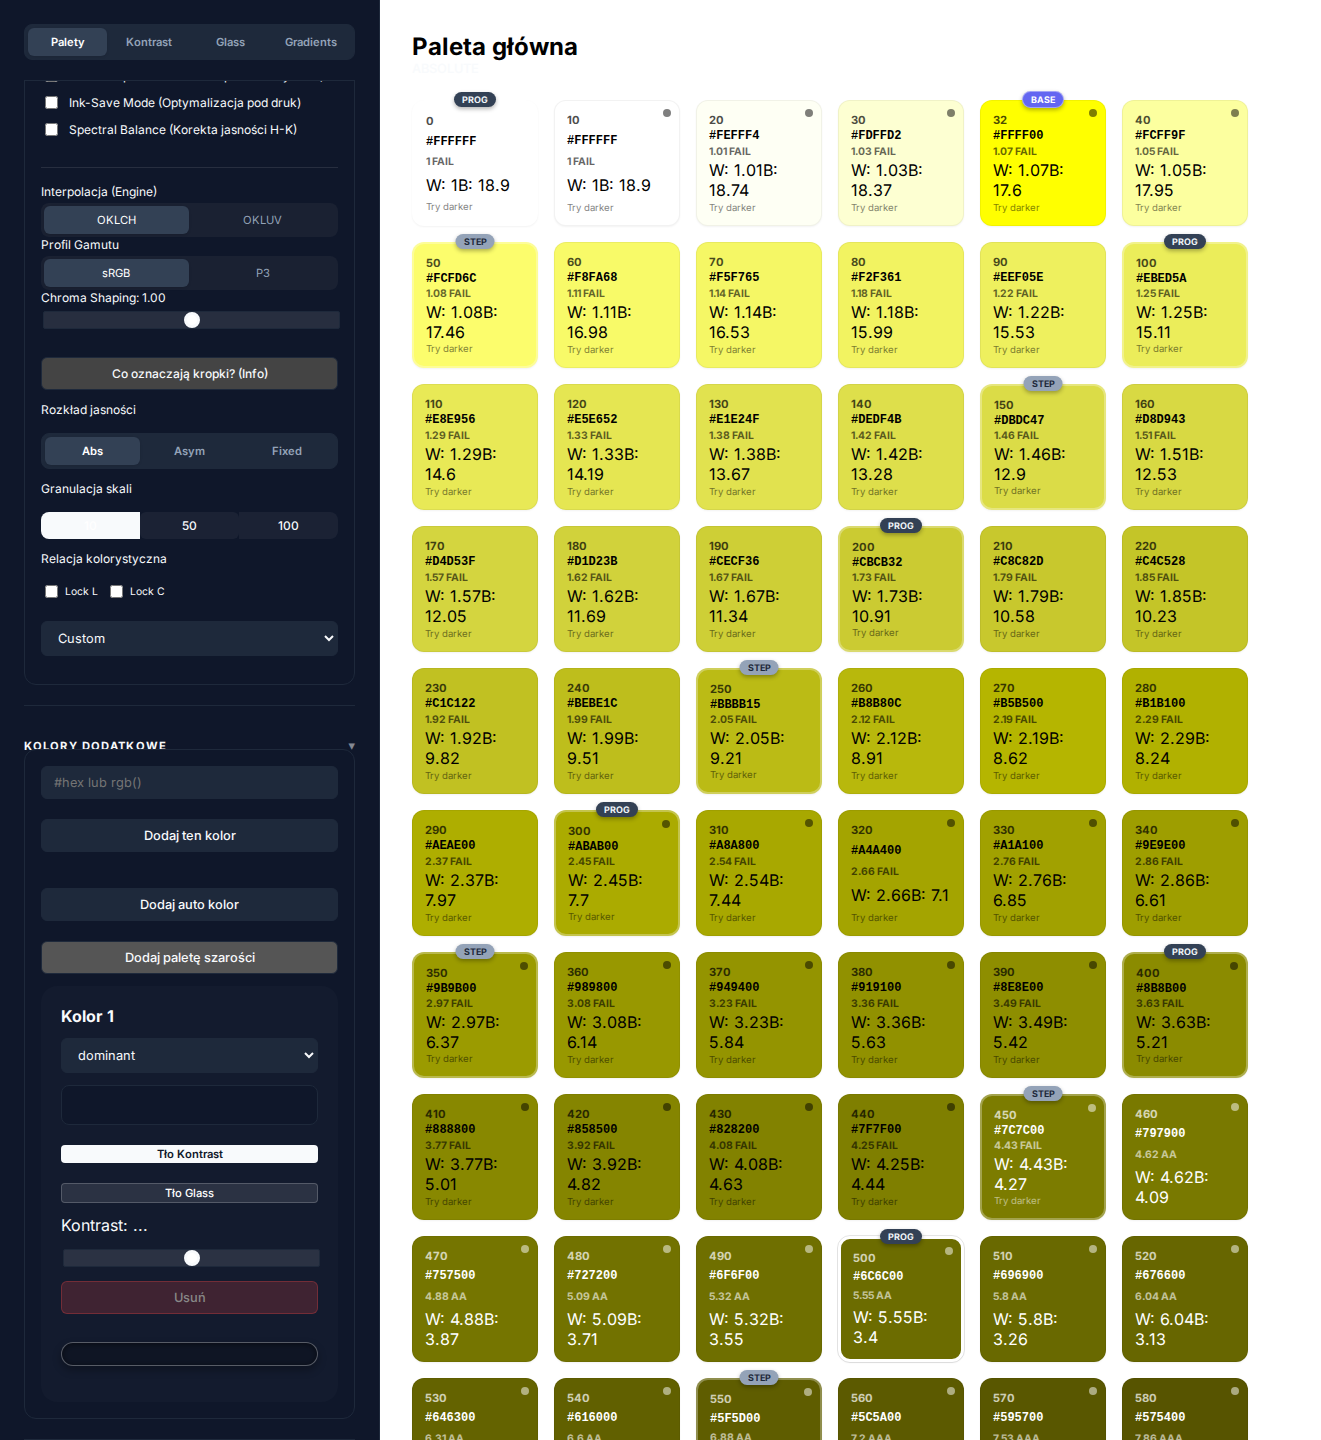
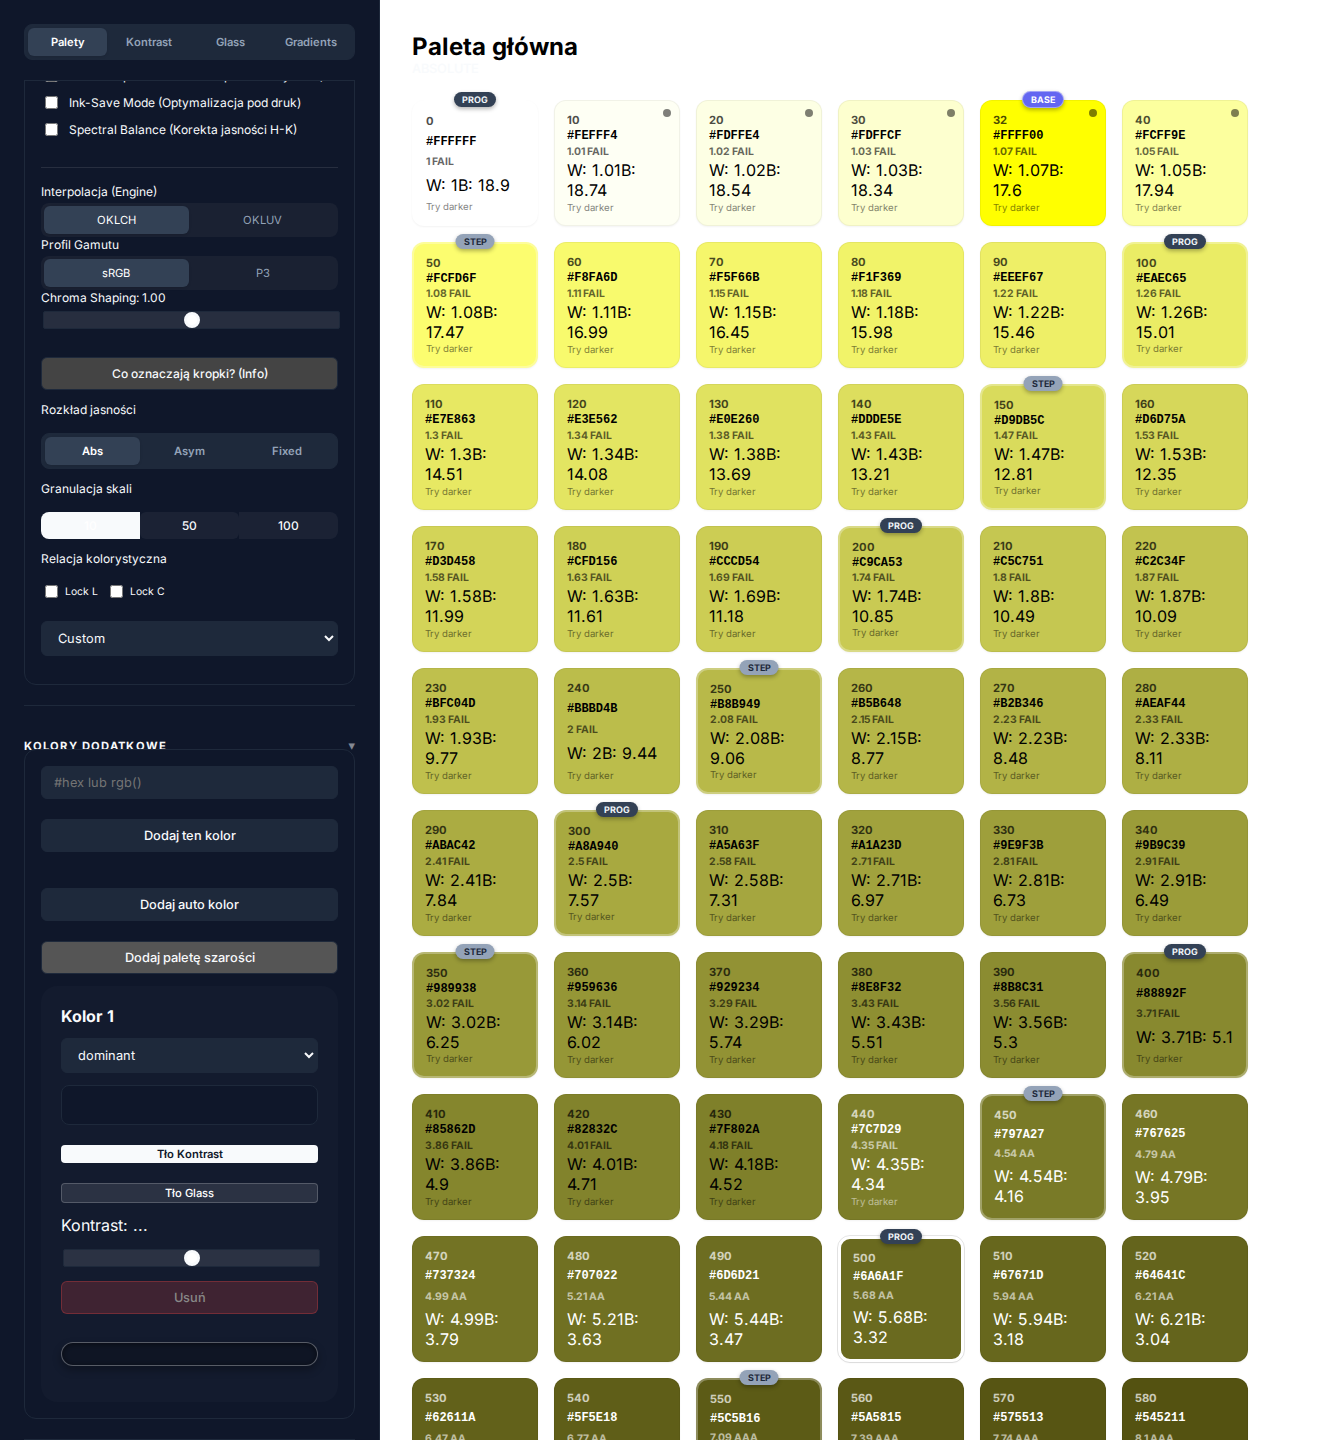
Refactor color engine to OKLCH, fix yellow blowout, and implement V9 features.
- Migrated core engine math to OKLCH and CAM16-UCS in `engine/engine.math.js`.
- Implemented Hybrid Falloff Model (V9.1) in `engine/algo.standard.js` to resolve yellow gradation issues.
- Synchronized granularity controls (10/50/100 steps) across UI and engine.
- Added 'Light Mode Boost' for hue-corrected yellows and 'Spectral Balance' for perceptual consistency.
- Fixed UI rendering for Glass and Gradient views and resolved missing imports in sidebar controls.
- Generated comprehensive documentation: checklist.txt, audit.txt, and analysis.txt.
- Verified visual correctness via automated Playwright scripts and screenshots.

diff --git a/ui/render/ui.render.swatch.js b/ui/render/ui.render.swatch.js
@@ -25,8 +25,11 @@ export function renderSwatch(swatch, opts = {}){
   const is100 = swatch.isProg100;
   const is50  = swatch.isProg50;
 
-  if (gran === 50 && !is50 && !swatch.isBase) return null;
-  if (gran === 100 && !is100 && !swatch.isBase) return null;
+  // For compact views (Functional/Badge), we don't filter by global granularity
+  if (!opts.compact) {
+    if (gran === 50 && !is50 && !swatch.isBase) return null;
+    if (gran === 100 && !is100 && !swatch.isBase) return null;
+  }
 
   d.style.background = swatch.hex;
 
@@ -45,7 +48,7 @@ export function renderSwatch(swatch, opts = {}){
       d.appendChild(badge);
   }
 
-  if (gran === 10) {
+  if (gran === 10 || opts.compact) {
       if (is100) {
           const badge = el('div', 'swatch-badge step100 visible', 'PROG');
           if (!swatch.isBase) d.appendChild(badge);
@@ -57,6 +60,13 @@ export function renderSwatch(swatch, opts = {}){
       if (is100) {
           const badge = el('div', 'swatch-badge step100 visible', 'PROG');
           if (!swatch.isBase) d.appendChild(badge);
+      }
+  } else if (gran === 100) {
+      // In Gradation 100, we don't necessarily show badges unless requested,
+      // but let's show PROG if it's the 100-step (which is always true in Grad 100 mode)
+      if (is100 && !swatch.isBase) {
+           const badge = el('div', 'swatch-badge step100 visible', 'PROG');
+           d.appendChild(badge);
       }
   }
 

diff --git a/engine/engine.palettes.js b/engine/engine.palettes.js
@@ -11,11 +11,19 @@ import {
 } from "./engine.scales.js";
 import { rgbToHex } from "./engine.math.js";
 /* ---------- MAIN PALETTE ---------- */
+function getStepsForGranularity(gran) {
+    if (gran === 10) return Array.from({length: 101}, (_, i) => i * 10);
+    if (gran === 50) return Array.from({length: 21}, (_, i) => i * 50);
+    if (gran === 100) return Array.from({length: 11}, (_, i) => i * 100);
+    return Array.from({length: 101}, (_, i) => i * 10);
+}
+
 export function getMainPalette(){
   const baseLch = getBaseLCH();
   const baseHex = rgbToHex(EngineState.base.rgb);
+  const steps = getStepsForGranularity(EngineState.mode.granularity);
   return {
-    scale: generateScaleForLCH(baseLch, undefined, false, baseHex),
+    scale: generateScaleForLCH(baseLch, steps, false, baseHex),
     mode: EngineState.mode.scale
   };
 }
@@ -72,10 +80,11 @@ export function getAdditionalPalettes(){
       h: hue
     };
 
+    const steps = getStepsForGranularity(EngineState.mode.granularity);
     return {
       index: c.index,
       role: c.role,
-      scale: generateScaleForLCH(lch, undefined, false, c.manualHex)
+      scale: generateScaleForLCH(lch, steps, false, c.manualHex)
     };
   });
 }

diff --git a/engine/algo.standard.js b/engine/algo.standard.js
@@ -24,7 +24,14 @@ export function generateStandardScale(baseLch, steps, isDarkMode) {
         const s0 = sigmoid(-0.5);
         const s1 = sigmoid(0.5);
         const t = (sigmoid(normalizedDist - 0.5) - s0) / (s1 - s0);
-        const falloff = Math.max(0, 1 - t);
+
+        // V9.1 Linear Blend for high-chroma base colors to prevent "blowout"
+        // If base color is very saturated, we use a more linear falloff to avoid sudden jumps
+        const linearFalloff = Math.max(0, 1 - normalizedDist);
+        const sigmoidalFalloff = Math.max(0, 1 - t);
+
+        const falloffMix = Math.min(1.0, baseLch.C * 4.0); // 0.25 chroma = full sigmoidal, higher = mix linear
+        const falloff = (sigmoidalFalloff * (1 - falloffMix)) + (linearFalloff * falloffMix);
 
         const { chromaScale, lBias } = getPerceptualCompensation({ L, C: baseLch.C, h: baseLch.h });
 

diff --git a/ui/controls/ui.controls.palettes.js b/ui/controls/ui.controls.palettes.js
@@ -6,7 +6,7 @@ import {
     setInkSaveMode, setSpectralBalance, setPerceptualPolish, setInterpolationMode,
     setGamutProfile, setChromaShapingFactor, setGranularity, setView,
     updateColorRole, removeColor, setBackgroundSource, setGlassBackgroundSource,
-    getState, setRelation, setRelationDistance
+    getState, setRelation, setRelationDistance, setLock
 } from '../../engine/engine.core.js';
 import { clearGradientCache } from '../../engine/engine.gradients.js';
 import { rgbToOklab, oklabToOklch, rgbToHex } from '../../engine/engine.math.js';
